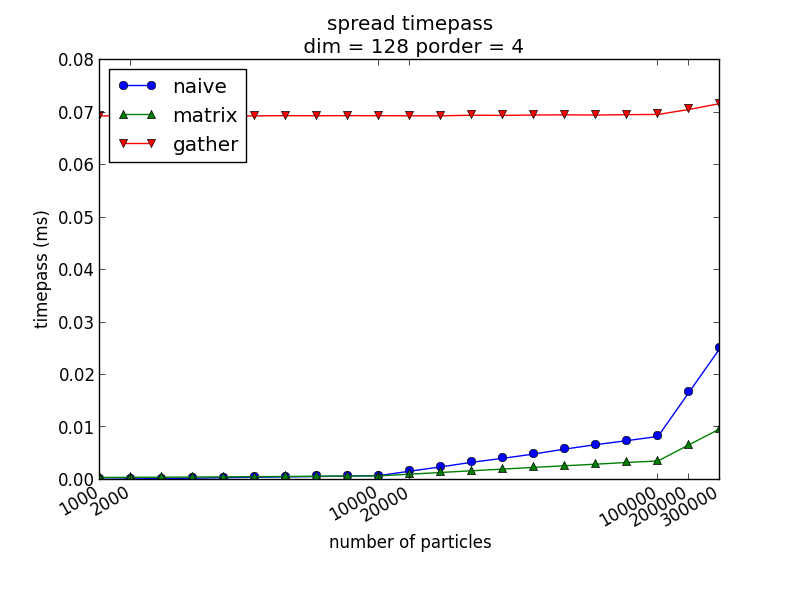
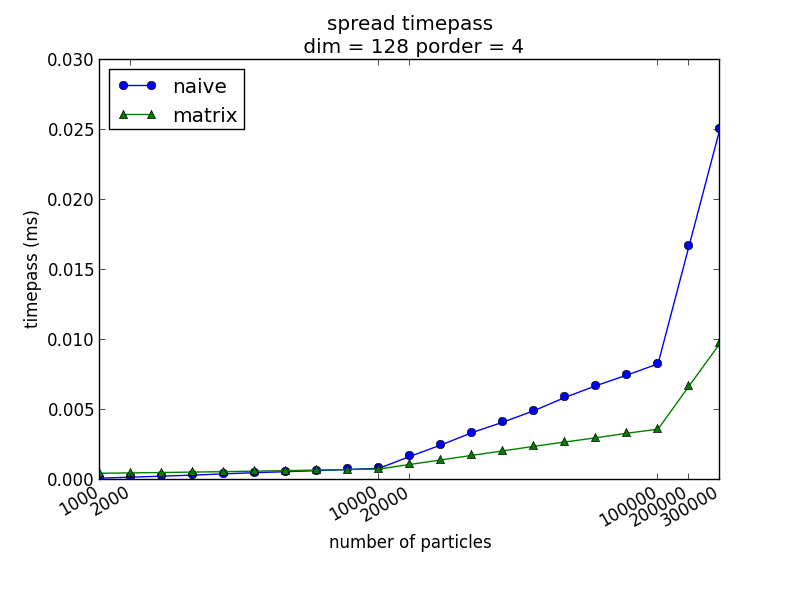
change dim 128

diff --git a/DataAnalysis/plotSpread.py b/DataAnalysis/plotSpread.py
@@ -5,7 +5,7 @@ import numpy as np
 cnt = 22
 
 
-for (i,j) in [(32,4),(32,6),(64,4),(64,6),(128,4),(128,6)]:
+for (i,j) in [(128,4),(128,6)]:
 	fig,ax = plt.subplots()
 
 	fr = open("./statistic-naive/dim%dporder%dPhi0.1.txt" % (i,j),"r")
@@ -42,19 +42,19 @@ for (i,j) in [(32,4),(32,6),(64,4),(64,6),(128,4),(128,6)]:
 
 	ax.plot(ind,y,'^-',label='matrix')
 
-	fr = open("./statistic-gather/dim%dporder%dPhi0.1.txt" % (i,j),"r")
+#	fr = open("./statistic-gather/dim%dporder%dPhi0.1.txt" % (i,j),"r")
 
-	y = []
-	tmp = 1
+#	y = []
+#	tmp = 1
 
-	for line in fr.readlines():
-		arr = line.strip().split()
-		if tmp >= cnt: break
-		y.append(eval(arr[3]))
-		tmp = tmp + 1
-	fr.close()
+#	for line in fr.readlines():
+#		arr = line.strip().split()
+#		if tmp >= cnt: break
+#		y.append(eval(arr[3]))
+#		tmp = tmp + 1
+#	fr.close()
 
-	ax.plot(ind,y,'v-',label='gather')
+#	ax.plot(ind,y,'v-',label='gather')
 
 	def format(indx, pos=None):
 		thisind = np.clip(int(indx),0,N-1)
